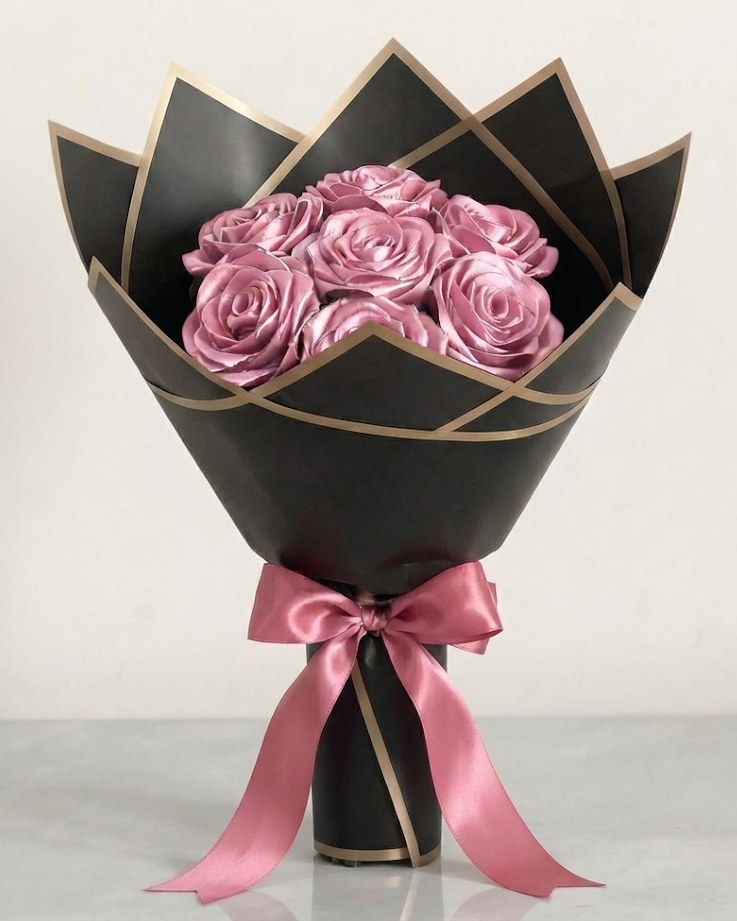
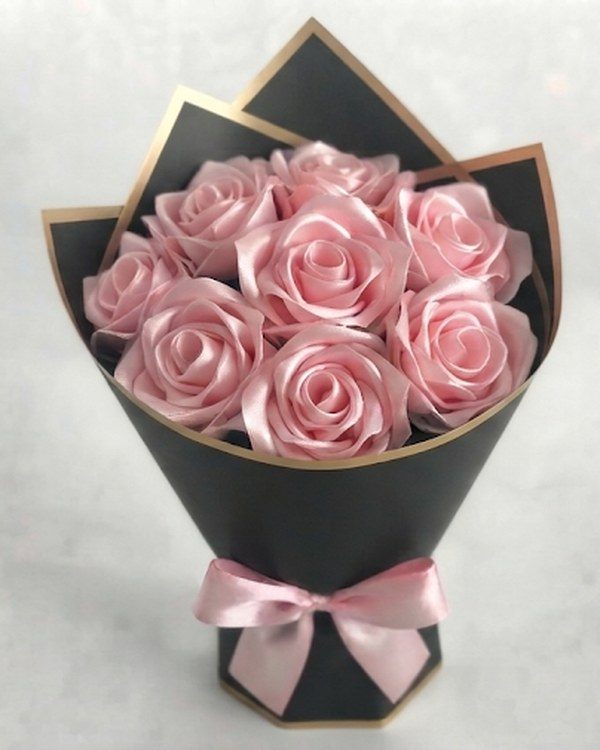
Pink 7-rose photos: black, newspaper, white wrap with glitter; new white and black plain
Claude-Session: https://claude.ai/code/session_01GvQGKs82VGAi27JdspmeE6

diff --git a/about.html b/about.html
@@ -6,7 +6,7 @@
 <link rel="preconnect" href="https://fonts.googleapis.com">
 <link rel="preconnect" href="https://fonts.gstatic.com" crossorigin>
 <link href="https://fonts.googleapis.com/css2?family=Great+Vibes&family=Playfair+Display:wght@500;600;700&family=Poppins:wght@400;500;600&display=swap" rel="stylesheet">
-<link rel="stylesheet" href="assets/css/styles.css?v=202610241019">
+<link rel="stylesheet" href="assets/css/styles.css?v=202610241026">
 <link rel="icon" href="assets/favicon.svg" type="image/svg+xml">
 <title>About Our Flowers | Fleure</title>
 <meta name="description" content="Handmade bouquets shaped by hand from soft pipe cleaners and satin ribbon, made slowly in a small studio.">
@@ -53,9 +53,9 @@
     <a class="btn btn-outline" href="custom.html">Place a custom order</a>
   </div>
 </main>
-<script src="assets/js/data.js?v=202610241019"></script>
-<script src="assets/js/bouquet.js?v=202610241019"></script>
-<script src="assets/js/app.js?v=202610241019"></script>
+<script src="assets/js/data.js?v=202610241026"></script>
+<script src="assets/js/bouquet.js?v=202610241026"></script>
+<script src="assets/js/app.js?v=202610241026"></script>
 <script>document.getElementById("arrange-img").src = productImage(byId("white-lily-bouquet"));
 document.querySelectorAll("[data-icon]").forEach((el) => (el.innerHTML = ICONS[el.dataset.icon]));</script>
 </body>

diff --git a/custom.html b/custom.html
@@ -6,7 +6,7 @@
 <link rel="preconnect" href="https://fonts.googleapis.com">
 <link rel="preconnect" href="https://fonts.gstatic.com" crossorigin>
 <link href="https://fonts.googleapis.com/css2?family=Great+Vibes&family=Playfair+Display:wght@500;600;700&family=Poppins:wght@400;500;600&display=swap" rel="stylesheet">
-<link rel="stylesheet" href="assets/css/styles.css?v=202610241019">
+<link rel="stylesheet" href="assets/css/styles.css?v=202610241026">
 <link rel="icon" href="assets/favicon.svg" type="image/svg+xml">
 <title>Build Your Own Bouquet | Fleure</title>
 <meta name="description" content="Create a custom handmade bouquet: choose flowers, colours, wrap and a gift note, then send us your request.">
@@ -55,9 +55,9 @@
     </form>
   </section>
 </main>
-<script src="assets/js/data.js?v=202610241019"></script>
-<script src="assets/js/bouquet.js?v=202610241019"></script>
-<script src="assets/js/app.js?v=202610241019"></script>
+<script src="assets/js/data.js?v=202610241026"></script>
+<script src="assets/js/bouquet.js?v=202610241026"></script>
+<script src="assets/js/app.js?v=202610241026"></script>
 <script>
   document.getElementById("occasions").innerHTML = [
     ["Birthday", "photo-teddy-bouquet"], ["Anniversary", "red-ribbon-roses"], ["Graduation", "white-lily-bouquet"], ["Valentine's", "pink-ribbon-roses"],

diff --git a/contact.html b/contact.html
@@ -6,7 +6,7 @@
 <link rel="preconnect" href="https://fonts.googleapis.com">
 <link rel="preconnect" href="https://fonts.gstatic.com" crossorigin>
 <link href="https://fonts.googleapis.com/css2?family=Great+Vibes&family=Playfair+Display:wght@500;600;700&family=Poppins:wght@400;500;600&display=swap" rel="stylesheet">
-<link rel="stylesheet" href="assets/css/styles.css?v=202610241019">
+<link rel="stylesheet" href="assets/css/styles.css?v=202610241026">
 <link rel="icon" href="assets/favicon.svg" type="image/svg+xml">
 <title>Contact | Fleure</title>
 <meta name="description" content="Have a question, an idea or a custom request? Email us.">
@@ -36,9 +36,9 @@
   </section>
   <div class="thanks"><span class="script">Thank you</span>for supporting handmade</div>
 </main>
-<script src="assets/js/data.js?v=202610241019"></script>
-<script src="assets/js/bouquet.js?v=202610241019"></script>
-<script src="assets/js/app.js?v=202610241019"></script>
+<script src="assets/js/data.js?v=202610241026"></script>
+<script src="assets/js/bouquet.js?v=202610241026"></script>
+<script src="assets/js/app.js?v=202610241026"></script>
 <script>
   document.querySelectorAll("[data-icon]").forEach((el) => (el.innerHTML = ICONS[el.dataset.icon]));
   document.getElementById("contact-img").src = productImage(byId("red-ribbon-roses"));

diff --git a/assets/js/app.js b/assets/js/app.js
@@ -201,7 +201,7 @@
   // Photos reuse this script's ?v= stamp so browsers fetch new copies after each update.
   const version = new URL(document.currentScript.src).searchParams.get("v") || "";
   // Real photos by rose colour: folder under assets/sizes and the counts photographed in every wrap and finish, and single extra photos.
-  const SIZE_PHOTOS = { Red: { dir: "", counts: { min: 1, max: 30 } }, Pink: { dir: "pink/", counts: [1, 3], extra: ["black-plain-7", "black-plain-10", "black-plain-20", "white-plain-7", "white-plain-10", "white-plain-13", "white-plain-17", "white-plain-20"] }, White: { dir: "white/", counts: [1, 3] }, Black: { dir: "black/", counts: [1, 3] } };
+  const SIZE_PHOTOS = { Red: { dir: "", counts: { min: 1, max: 30 } }, Pink: { dir: "pink/", counts: [1, 3], extra: ["black-plain-7", "black-glitter-7", "newspaper-glitter-7", "white-glitter-7", "black-plain-10", "black-plain-20", "white-plain-7", "white-plain-10", "white-plain-13", "white-plain-17", "white-plain-20"] }, White: { dir: "white/", counts: [1, 3] }, Black: { dir: "black/", counts: [1, 3] } };
   // Real lily bouquet photos: [colour, wrap, number of lilies, file]. Lilies always show a real photo:
   // the exact match when there is one, otherwise the closest photo in the same colour (same wrap first).
   const LILY_PHOTOS = [

diff --git a/checkout.html b/checkout.html
@@ -6,7 +6,7 @@
 <link rel="preconnect" href="https://fonts.googleapis.com">
 <link rel="preconnect" href="https://fonts.gstatic.com" crossorigin>
 <link href="https://fonts.googleapis.com/css2?family=Great+Vibes&family=Playfair+Display:wght@500;600;700&family=Poppins:wght@400;500;600&display=swap" rel="stylesheet">
-<link rel="stylesheet" href="assets/css/styles.css?v=202610241019">
+<link rel="stylesheet" href="assets/css/styles.css?v=202610241026">
 <link rel="icon" href="assets/favicon.svg" type="image/svg+xml">
 <title>Checkout | Fleure</title>
 <meta name="description" content="Place your order: your details, pickup or delivery, and online payment.">
@@ -42,9 +42,9 @@
     </aside>
   </section>
 </main>
-<script src="assets/js/data.js?v=202610241019"></script>
-<script src="assets/js/bouquet.js?v=202610241019"></script>
-<script src="assets/js/app.js?v=202610241019"></script>
+<script src="assets/js/data.js?v=202610241026"></script>
+<script src="assets/js/bouquet.js?v=202610241026"></script>
+<script src="assets/js/app.js?v=202610241026"></script>
 <script>
   const D = SHOP.delivery;
   const METHODS = [["Pickup", D.pickup, "Pickup (free)"], ["Day delivery", D.day, `Day delivery (₹${D.day})`], ["Night delivery", D.night, `Night delivery (₹${D.night})`]];

diff --git a/how-to-order.html b/how-to-order.html
@@ -6,7 +6,7 @@
 <link rel="preconnect" href="https://fonts.googleapis.com">
 <link rel="preconnect" href="https://fonts.gstatic.com" crossorigin>
 <link href="https://fonts.googleapis.com/css2?family=Great+Vibes&family=Playfair+Display:wght@500;600;700&family=Poppins:wght@400;500;600&display=swap" rel="stylesheet">
-<link rel="stylesheet" href="assets/css/styles.css?v=202610241019">
+<link rel="stylesheet" href="assets/css/styles.css?v=202610241026">
 <link rel="icon" href="assets/favicon.svg" type="image/svg+xml">
 <title>How to Order + FAQ | Fleure</title>
 <meta name="description" content="How to order a handmade bouquet online, plus answers about flower care, delivery and payment.">
@@ -43,9 +43,9 @@
     </div>
   </section>
 </main>
-<script src="assets/js/data.js?v=202610241019"></script>
-<script src="assets/js/bouquet.js?v=202610241019"></script>
-<script src="assets/js/app.js?v=202610241019"></script>
+<script src="assets/js/data.js?v=202610241026"></script>
+<script src="assets/js/bouquet.js?v=202610241026"></script>
+<script src="assets/js/app.js?v=202610241026"></script>
 <script>
   document.getElementById("email-us").innerHTML = emailUs();
   document.querySelectorAll("[data-icon]").forEach((el) => (el.innerHTML = ICONS[el.dataset.icon]));

diff --git a/product.html b/product.html
@@ -6,7 +6,7 @@
 <link rel="preconnect" href="https://fonts.googleapis.com">
 <link rel="preconnect" href="https://fonts.gstatic.com" crossorigin>
 <link href="https://fonts.googleapis.com/css2?family=Great+Vibes&family=Playfair+Display:wght@500;600;700&family=Poppins:wght@400;500;600&display=swap" rel="stylesheet">
-<link rel="stylesheet" href="assets/css/styles.css?v=202610241019">
+<link rel="stylesheet" href="assets/css/styles.css?v=202610241026">
 <link rel="icon" href="assets/favicon.svg" type="image/svg+xml">
 <title>Bouquet | Fleure</title>
 <meta name="description" content="Handmade bouquet, made to order. Choose colours and wrap, and order online.">
@@ -24,9 +24,9 @@
     <div class="product-grid" id="related"></div>
   </section>
 </main>
-<script src="assets/js/data.js?v=202610241019"></script>
-<script src="assets/js/bouquet.js?v=202610241019"></script>
-<script src="assets/js/app.js?v=202610241019"></script>
+<script src="assets/js/data.js?v=202610241026"></script>
+<script src="assets/js/bouquet.js?v=202610241026"></script>
+<script src="assets/js/app.js?v=202610241026"></script>
 <script>
   const params = new URLSearchParams(location.search);
   // Old links to lily products that were merged into the White Lily Bouquet.

diff --git a/index.html b/index.html
@@ -6,7 +6,7 @@
 <link rel="preconnect" href="https://fonts.googleapis.com">
 <link rel="preconnect" href="https://fonts.gstatic.com" crossorigin>
 <link href="https://fonts.googleapis.com/css2?family=Great+Vibes&family=Playfair+Display:wght@500;600;700&family=Poppins:wght@400;500;600&display=swap" rel="stylesheet">
-<link rel="stylesheet" href="assets/css/styles.css?v=202610241019">
+<link rel="stylesheet" href="assets/css/styles.css?v=202610241026">
 <link rel="icon" href="assets/favicon.svg" type="image/svg+xml">
 <title>Fleure | Handmade Flower Bouquets</title>
 <meta name="description" content="Handmade forever flowers that never wilt: pipe-cleaner and satin ribbon bouquets, made to order. Order online.">
@@ -64,9 +64,9 @@
     </div>
   </section>
 </main>
-<script src="assets/js/data.js?v=202610241019"></script>
-<script src="assets/js/bouquet.js?v=202610241019"></script>
-<script src="assets/js/app.js?v=202610241019"></script>
+<script src="assets/js/data.js?v=202610241026"></script>
+<script src="assets/js/bouquet.js?v=202610241026"></script>
+<script src="assets/js/app.js?v=202610241026"></script>
 <script>
   document.querySelectorAll("[data-shop-name]").forEach((el) => (el.textContent = SHOP.name));
 

diff --git a/shop.html b/shop.html
@@ -6,7 +6,7 @@
 <link rel="preconnect" href="https://fonts.googleapis.com">
 <link rel="preconnect" href="https://fonts.gstatic.com" crossorigin>
 <link href="https://fonts.googleapis.com/css2?family=Great+Vibes&family=Playfair+Display:wght@500;600;700&family=Poppins:wght@400;500;600&display=swap" rel="stylesheet">
-<link rel="stylesheet" href="assets/css/styles.css?v=202610241019">
+<link rel="stylesheet" href="assets/css/styles.css?v=202610241026">
 <link rel="icon" href="assets/favicon.svg" type="image/svg+xml">
 <title>Shop Bouquets | Fleure</title>
 <meta name="description" content="Satin ribbon roses from ₹59, pipe cleaner lilies from ₹89 and gift bouquets. Handmade to order.">
@@ -22,9 +22,9 @@
   </div>
   <div id="rows"></div>
 </main>
-<script src="assets/js/data.js?v=202610241019"></script>
-<script src="assets/js/bouquet.js?v=202610241019"></script>
-<script src="assets/js/app.js?v=202610241019"></script>
+<script src="assets/js/data.js?v=202610241026"></script>
+<script src="assets/js/bouquet.js?v=202610241026"></script>
+<script src="assets/js/app.js?v=202610241026"></script>
 <script>
   const rows = document.getElementById("rows");
   const filters = document.getElementById("filters");
